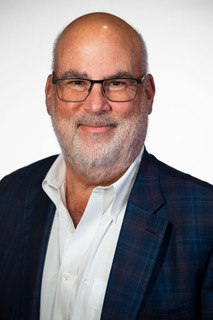
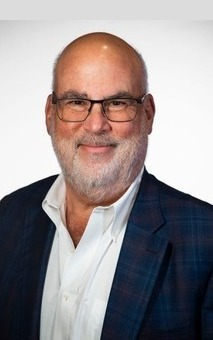
fix: add headroom to Saul Factor headshot, add object-position:center top in About section
- Padded saul-factor.jpg with ~20px top headroom to prevent head from being clipped
- Added object-position:center top to About/Board section img (was missing)
- Leadership section already had object-position:center top (unchanged)

diff --git a/index.html b/index.html
@@ -3174,7 +3174,7 @@
         <div style="background:var(--bg-2);padding:1.75rem;border-top:2px solid var(--rule);"><div style="width:120px;height:120px;margin-bottom:1rem;border-radius:0;overflow:hidden;border:2px solid var(--rule);"><img class="headshot-bw" src="assets/obie-mckenzie.webp" alt="Obie McKenzie" style="width:100%;height:100%;object-fit:cover;"></div><div style="font-family:var(--serif);font-size:1.125rem;font-weight:700;color:var(--ink);margin-bottom:0.25rem;">Obie McKenzie</div><div style="font-family:var(--mono);font-size:0.75rem;letter-spacing:0.1em;text-transform:uppercase;color:var(--teal);margin-bottom:0.75rem;">Director</div><p style="font-size:0.875rem;color:var(--ink-2);font-weight:300;line-height:1.6;margin:0;">Vice Chair at Cordiant Capital; former BlackRock Managing Director.</p></div>
         <div style="background:var(--bg-2);padding:1.75rem;border-top:2px solid var(--rule);"><div style="width:120px;height:120px;margin-bottom:1rem;border-radius:0;overflow:hidden;border:2px solid var(--rule);"><img class="headshot-bw" src="assets/gary-paquin.webp" alt="Gary Paquin" style="width:100%;height:100%;object-fit:cover;"></div><div style="font-family:var(--serif);font-size:1.125rem;font-weight:700;color:var(--ink);margin-bottom:0.25rem;">Gary Paquin</div><div style="font-family:var(--mono);font-size:0.75rem;letter-spacing:0.1em;text-transform:uppercase;color:var(--teal);margin-bottom:0.75rem;">Director</div><p style="font-size:0.875rem;color:var(--ink-2);font-weight:300;line-height:1.6;margin:0;">Co-founder of iRemedy and Agency One; Stanford and Harvard board-certified sales and leadership expert.</p></div>
         <div style="background:var(--bg-2);padding:1.75rem;border-top:2px solid var(--rule);"><div style="width:120px;height:120px;margin-bottom:1rem;border-radius:0;overflow:hidden;border:2px solid var(--rule);"><img class="headshot-bw" src="assets/tomas-philipson.webp" alt="Dr. Tomas Philipson" style="width:100%;height:100%;object-fit:cover;"></div><div style="font-family:var(--serif);font-size:1.125rem;font-weight:700;color:var(--ink);margin-bottom:0.25rem;">Dr. Tomas Philipson</div><div style="font-family:var(--mono);font-size:0.75rem;letter-spacing:0.1em;text-transform:uppercase;color:var(--teal);margin-bottom:0.75rem;">Director</div><p style="font-size:0.875rem;color:var(--ink-2);font-weight:300;line-height:1.6;margin:0;">Former Chair of the White House Council of Economic Advisers; leading health economist and policy strategist.</p></div>
-        <div style="background:var(--bg-2);padding:1.75rem;border-top:2px solid var(--rule);"><div style="width:120px;height:120px;margin-bottom:1rem;border-radius:0;overflow:hidden;border:2px solid var(--rule);"><img class="headshot-bw" src="assets/saul-factor.jpg" alt="Saul Factor" style="width:100%;height:100%;object-fit:cover;"></div><div style="font-family:var(--serif);font-size:1.125rem;font-weight:700;color:var(--ink);margin-bottom:0.25rem;">Saul Factor</div><div style="font-family:var(--mono);font-size:0.75rem;letter-spacing:0.1em;text-transform:uppercase;color:var(--teal);margin-bottom:0.75rem;">Director</div><p style="font-size:0.875rem;color:var(--ink-2);font-weight:300;line-height:1.6;margin:0;">Former President of Global Sourcing and President of Generics at McKesson Corporation.</p></div>
+        <div style="background:var(--bg-2);padding:1.75rem;border-top:2px solid var(--rule);"><div style="width:120px;height:120px;margin-bottom:1rem;border-radius:0;overflow:hidden;border:2px solid var(--rule);"><img class="headshot-bw" src="assets/saul-factor.jpg" alt="Saul Factor" style="width:100%;height:100%;object-fit:cover;object-position:center top;"></div><div style="font-family:var(--serif);font-size:1.125rem;font-weight:700;color:var(--ink);margin-bottom:0.25rem;">Saul Factor</div><div style="font-family:var(--mono);font-size:0.75rem;letter-spacing:0.1em;text-transform:uppercase;color:var(--teal);margin-bottom:0.75rem;">Director</div><p style="font-size:0.875rem;color:var(--ink-2);font-weight:300;line-height:1.6;margin:0;">Former President of Global Sourcing and President of Generics at McKesson Corporation.</p></div>
       </div>
     </div>
   </section>
